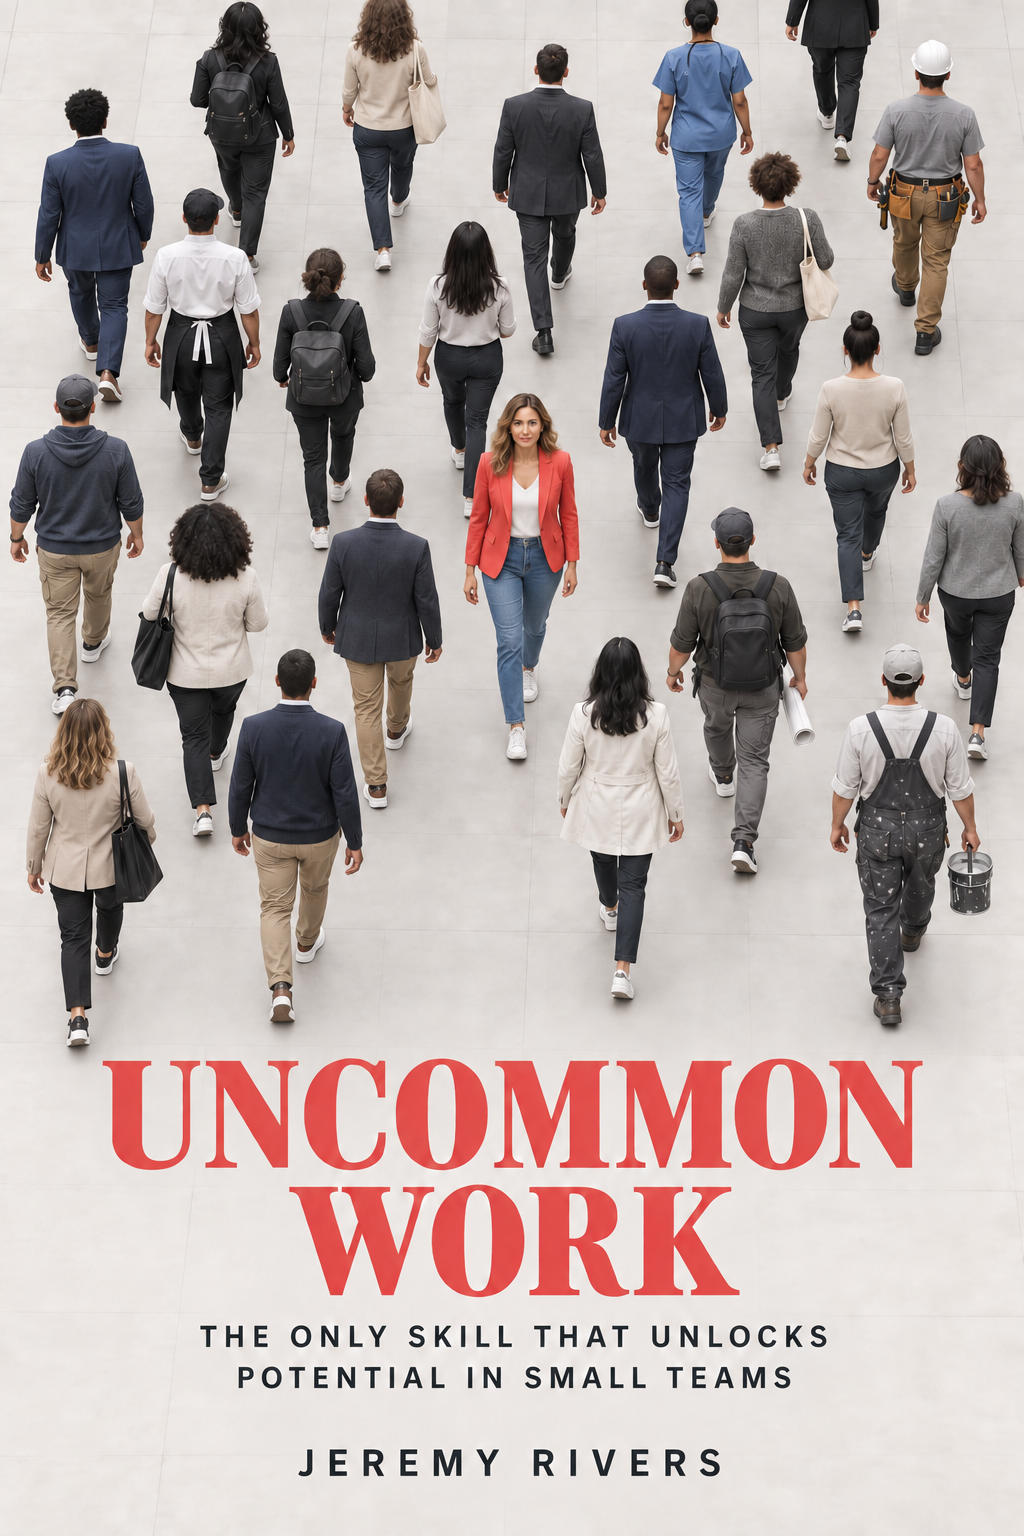
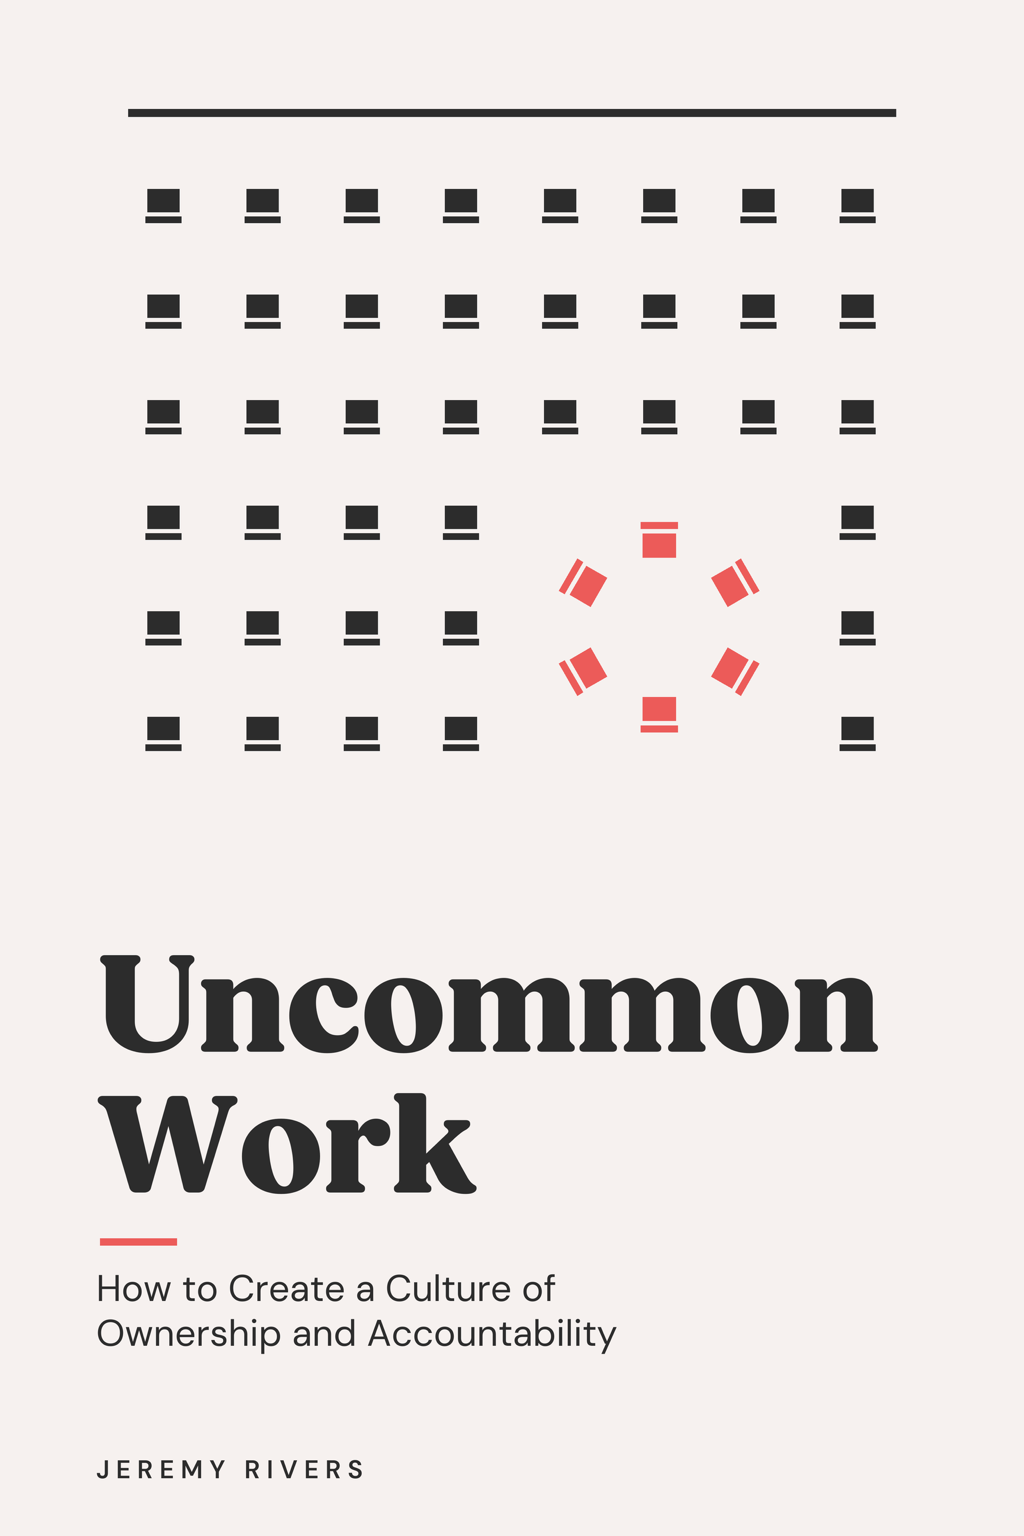
fix: book section and newsletter links point to Uncommon Work; Work Review Kit link to /kit
Approved by Jeremy, 2026-10-23.

diff --git a/index.html b/index.html
@@ -351,9 +351,9 @@ h1,h2,h3{font-family:var(--serif);font-variation-settings:var(--display);
       <img src="assets/img/uncommon-work-cover.png" alt="Uncommon Work by Jeremy Rivers, book cover" width="1024" height="1536">
     </figure>
     <div class="bookbody">
-    <h2>I’m writing <span class="title">Uncommon Work</span>, on the only skill that unlocks the potential in small teams.</h2>
-    <p>You can follow the thinking now on my newsletter, Take Account.</p>
-    <a class="artifact" href="https://takeaccount.substack.com" target="_blank" rel="noopener noreferrer">Read Take Account
+    <h2>I wrote <span class="title">Uncommon Work</span>, on how to create a culture of ownership and accountability.</h2>
+    <p>It’s free when you subscribe to my newsletter.</p>
+    <a class="artifact" href="https://uncommonwork.substack.com" target="_blank" rel="noopener noreferrer">Get the book free
       <svg viewBox="0 0 16 16" aria-hidden="true" focusable="false"><path d="M3 8h10M9 4l4 4-4 4" fill="none" stroke="currentColor" stroke-width="2" stroke-linecap="round" stroke-linejoin="round"/></svg>
     </a>
     </div>
@@ -412,8 +412,8 @@ h1,h2,h3{font-family:var(--serif);font-variation-settings:var(--display);
     <div class="links">
       <a href="https://www.linkedin.com/in/jeremyfrontier" target="_blank" rel="noopener noreferrer">
         <span class="lbl">LinkedIn</span><span class="val">linkedin.com/in/jeremyfrontier</span></a>
-      <a href="https://takeaccount.substack.com" target="_blank" rel="noopener noreferrer">
-        <span class="lbl">Newsletter</span><span class="val">Take Account on Substack</span></a>
+      <a href="https://uncommonwork.substack.com" target="_blank" rel="noopener noreferrer">
+        <span class="lbl">Newsletter</span><span class="val">Uncommon Work on Substack</span></a>
       <a href="mailto:jeremy@thefrontiergroup.co" target="_blank" rel="noopener noreferrer">
         <span class="lbl">Email</span><span class="val">jeremy@thefrontiergroup.co</span></a>
     </div>

diff --git a/workreview/index.html b/workreview/index.html
@@ -169,7 +169,7 @@ var SEASON_LINE = 'Build the Work Review your team will use every month next yea
 var BOOKING_LINK = 'https://calendar.app.google/ApJbwKz4WxqyrWHK9';
 var SUBSTACK_LINK = 'https://uncommonwork.substack.com';
 var SNAPSHOT_LINK = '/baseline/';
-var KIT_LINK = 'https://thefrontiergroup.co'; /* placeholder until the Kit is live on Gumroad */
+var KIT_LINK = 'https://thefrontiergroup.co/kit/';
 var KIT_PRICE = '$95, one time';
 var SHEET_THEME = 'ink'; /* spreadsheet colors: ink, coral, or green */
 var CONTACT_EMAIL = 'jeremy@thefrontiergroup.co';

diff --git a/docs/BRIEF.md b/docs/BRIEF.md
@@ -58,16 +58,16 @@ A complete planning and execution system, from long range strategy down to the w
 My method for building strategy: driven by inquiry, modeled through proven frameworks, and committed into action. It produces finished, usable strategy in a fraction of the time a typical brainstorm takes. I do not just have ideas, I systematize them.
 > Proof artifact: a facilitator kit SAMPLE/excerpt (one or two pages), NOT a full kit. Full kits are paid IP. This sample is NOT in the captured assets (login-gated) - Jeremy must supply it or it ships as a placeholder in v1.
 
-### THE BOOK - COMING SOON
-I'm writing Uncommon Momentum, on the only skill that unlocks the potential in small teams. You can follow the thinking now on my newsletter, Take Account.
-(Note: "Uncommon Momentum" is a for-this-page working title, not the locked book title. Substack: takeaccount.substack.com)
+### THE BOOK
+I wrote Uncommon Work, on how to create a culture of ownership and accountability. It's free when you subscribe to my newsletter.
+Link: Get the book free (uncommonwork.substack.com). Updated 2026-10-23 (Jeremy): book shipped, newsletter renamed from Take Account.
 
 ### PROOF / TESTIMONIAL WALL
 Use ALL testimonials captured from the old site, not a curated few. At least these six from the Session A capture (Website Migration/Kajabi Asset Capture): Ashley P., Mattanah D., Luke B. Ph.D., Ben J., Tiffany W., Harrison K. Sweep the full capture for any others on the about/work pages so none are dropped.
 
 ### CONNECT
 I'm open to the right operator role, and available for select consulting.
-Links: LinkedIn (linkedin.com/in/jeremyfrontier) - Take Account on Substack (takeaccount.substack.com) - Email (jeremy@thefrontiergroup.co)
+Links: LinkedIn (linkedin.com/in/jeremyfrontier) - Uncommon Work on Substack (uncommonwork.substack.com) - Email (jeremy@thefrontiergroup.co)
 
 ## 4. Brand system (from Brand Assets/Frontier Group Brand Guide 0326.pdf)
 - **Colors:** Sand #F6F1EF (light ground), Charcoal #2C2C2C (text), Coral #EC5B59 (highlight - buttons + callouts). Extended accent palette available: Violet E6B9FF, Sea B8E3DD, Sky A4CAFF, Cobalt 3D39E7, Forest 074A0C, Avocado 617200, Moss 658776, Lichen C4D8A3, Sun F6D57F, Peach FF8E65, Clay D1A394, Berry 791D1F.

diff --git a/CURRENT-HANDOFF.md b/CURRENT-HANDOFF.md
@@ -5,3 +5,5 @@
 **2026-10-13.** Work Review Builder built at `/workreview/` (D14), not linked from the homepage. Open: `LEAD_ENDPOINT` is blank until Jeremy deploys the Apps Script; until then the download works but no lead is captured.
 
 **2026-10-21.** Uncommon Kit sales page live at `/kit/` with a Stripe Payment Link, and `/kit/thanks/` (noindex) delivering the view only Notion Kit (D15). Not linked from the homepage. Open: Jeremy's live test purchase and refund; Stripe Tax registration after the CPA call; the hub shows the Jump Start Tracker attached three times.
+
+**2026-10-23.** Homepage book section and Connect now point to uncommonwork.substack.com (takeaccount.substack.com was 404), new v1.0 cover, "I wrote" copy; Work Review Builder KIT_LINK points to /kit/. Open: /work still shows the $2,500 Founding Pilot (unlinked; rewrite is Launch Checklist step 7).

diff --git a/CONTEXT.md b/CONTEXT.md
@@ -37,6 +37,6 @@ Run the 10 step protocol in `AGENTS.md` when the session's one outcome is done. 
 ## The Drive bridge
 Code lives here. A thin context folder lives on Drive at:
 
-`[Jeremy OS]/Frontier Group/Website Migration/`
+`jeremy-os/Frontier Group/Website Migration/`
 
 Skippy mirrors this repo's `CURRENT-HANDOFF.md` into that folder's notes on next contact. This repo never writes to Drive.

diff --git a/MEMORY.md b/MEMORY.md
@@ -28,4 +28,4 @@ See `docs/DECISIONS.md`. The load bearing ones: Fields is desktop licensed so th
 - LinkedIn: linkedin.com/in/jeremyfrontier
 
 ## Drive bridge
-`[Jeremy OS]/Frontier Group/Website Migration/`
+`jeremy-os/Frontier Group/Website Migration/`
